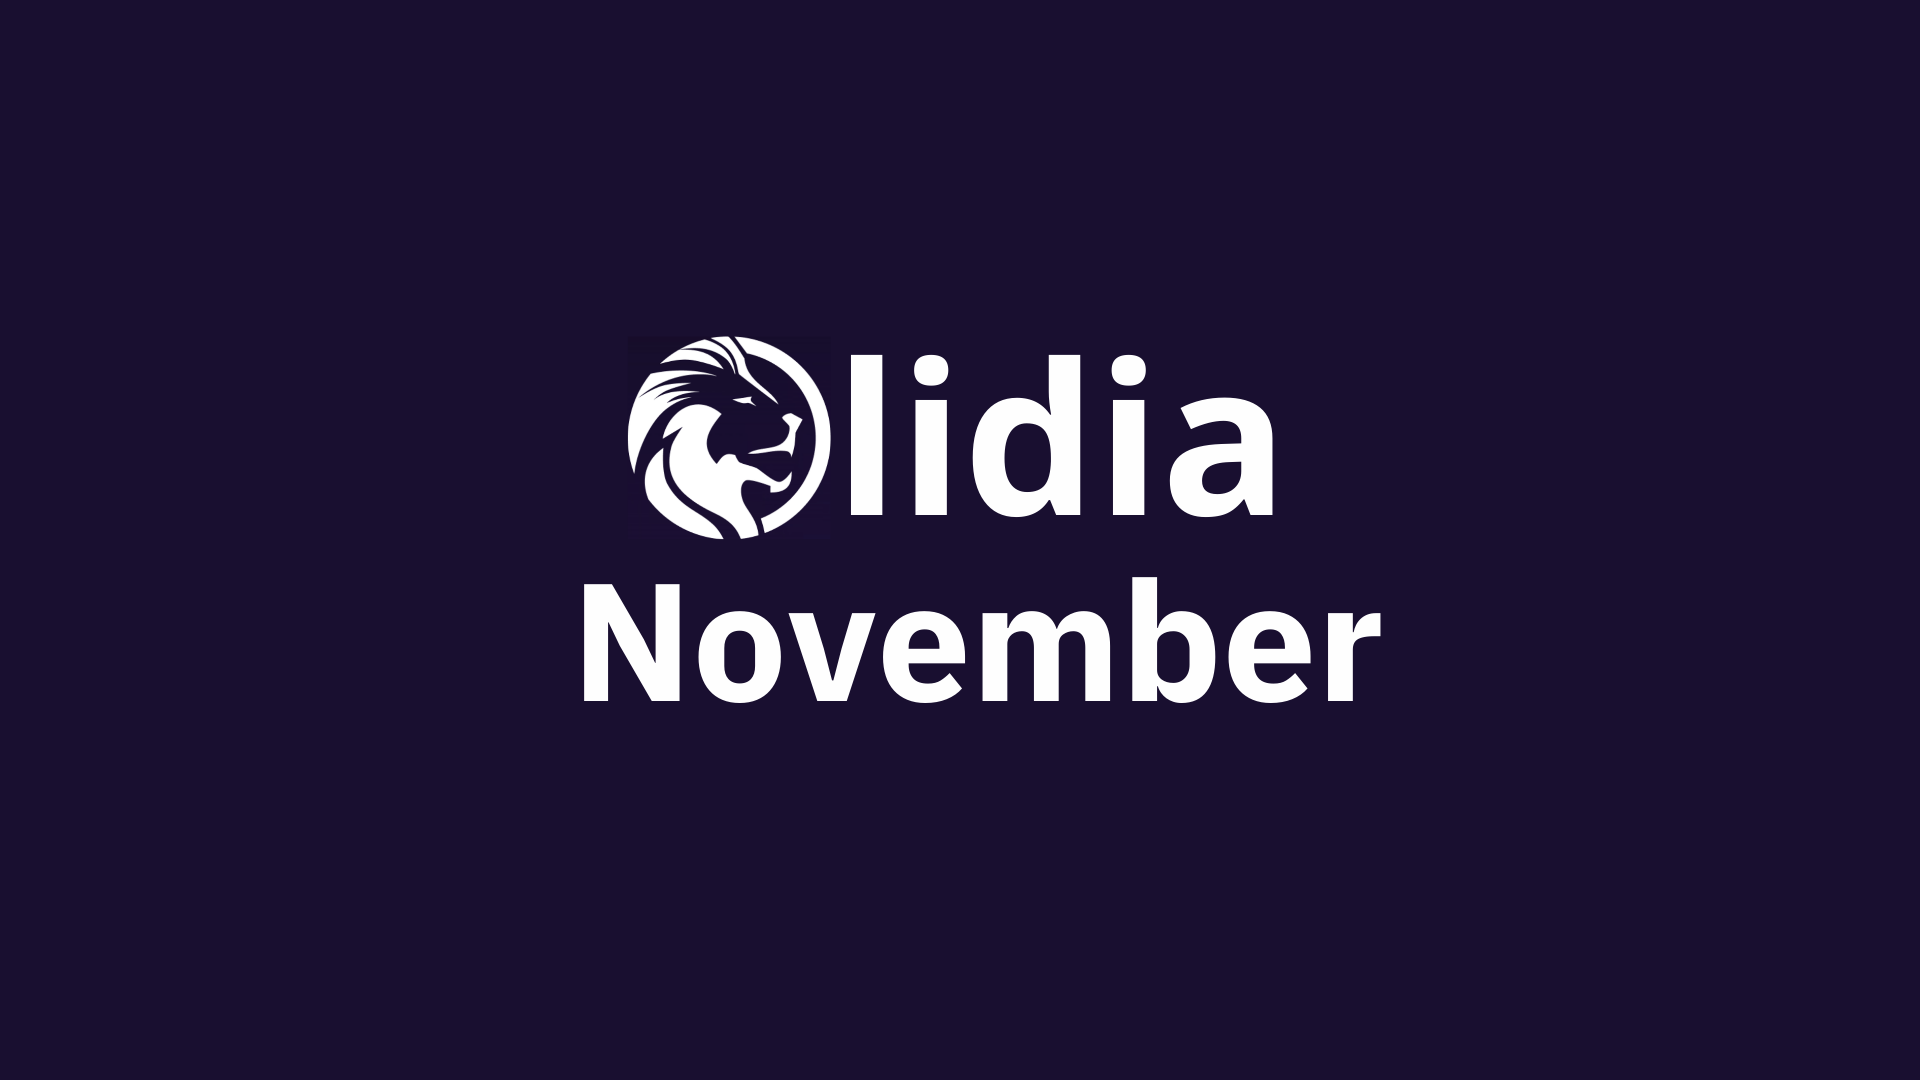
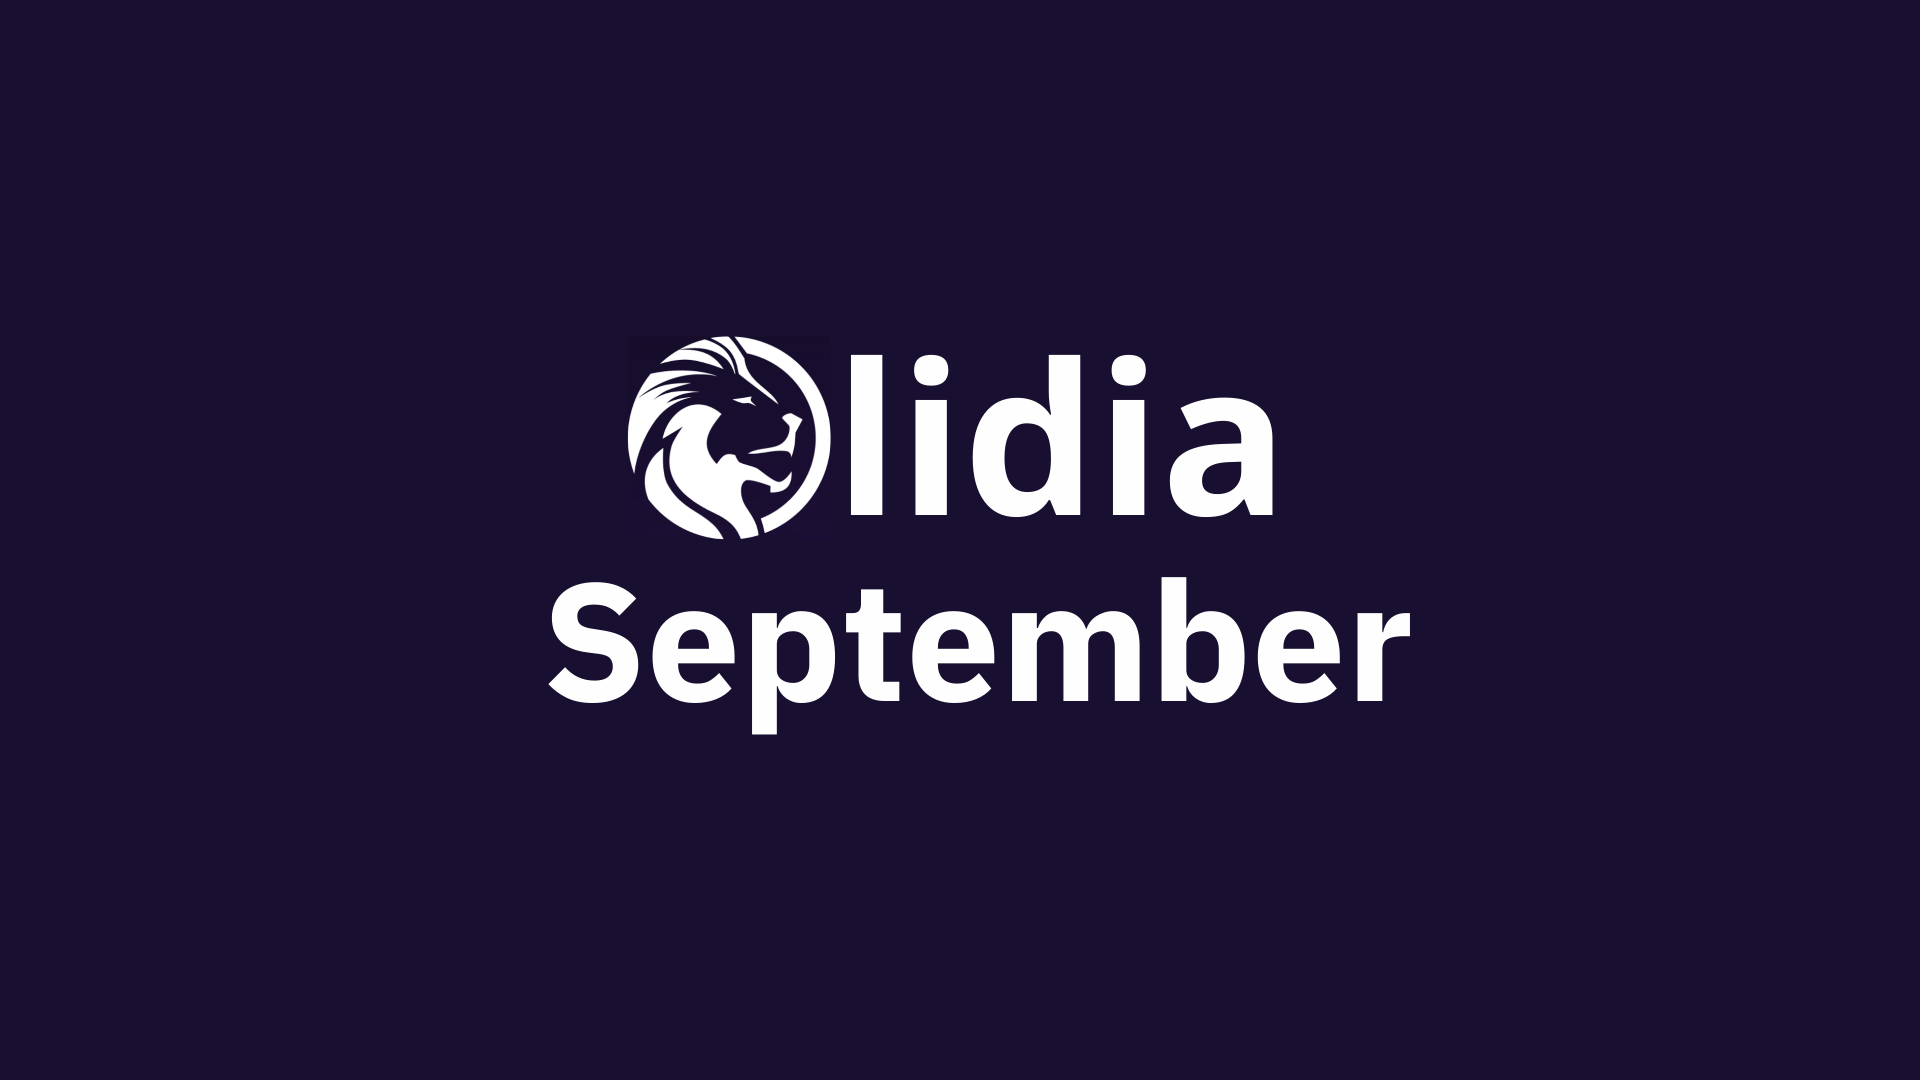
GITBOOK-291: change request with no subject merged in GitBook

Changed region(s): [[0.2812, 0.5194, 0.75, 0.7028]]

diff --git a/help-center/releases/lidia-2.2.x-release-notes.md b/help-center/releases/lidia-2.2.x-release-notes.md
@@ -2,6 +2,8 @@
 description: >-
   Discover the latest updates and improvements introduced this month, enhancing
   the functionality and user experience across the Lidia platform.
+cover: ../../.gitbook/assets/September.png
+coverY: 0
 ---
 
 # Lidia 2.2.x release notes
@@ -76,6 +78,22 @@ In this release, custom error pages were designed and developed to improve user 
 
 \
 The structure of browser tabs has been improved to provide better navigation. For example, the tab now shows the current page followed by the platform name, e.g., **Home | Lidia Partner**, making it easier for users to track their location within the platform.
+
+### 🚚 Delivery Management improvements
+
+**Newly Added Shipment Details**\
+**Release date :**  02/04/2025\
+**Version number : &#x20;**<mark style="color:purple;">**LP-2.2.1.3 - LMC-2.2.1.4**</mark>
+
+Additional shipment movement details have been incorporated into the system to provide users with more detailed tracking.
+
+* **Detailed Shipment Status Information**: More descriptive status updates have been introduced.
+* **Status Timestamp**: The exact time of each status update is now displayed.
+* **Last Processed Location**: The last recorded location where the shipment was processed is now included.
+
+***
+
+## Releases in 2.2.2 - 18 Feb 2025
 
 ***
 

diff --git a/help-center/releases/lidia-1.9.x-release-notes.md b/help-center/releases/lidia-1.9.x-release-notes.md
@@ -2,11 +2,11 @@
 description: >-
   Discover the latest updates and improvements introduced this month, enhancing
   the functionality and user experience across the Lidia platform.
-cover: ../../../.gitbook/assets/September.png
+cover: ../../.gitbook/assets/September (1).png
 coverY: 0
 ---
 
-# September
+# Lidia 1.9.x release notes
 
 ## 💡 **September Highlights: New Features and Improvements**
 

diff --git a/help-center/releases/lidia-1.11.x-release-notes.md b/help-center/releases/lidia-1.11.x-release-notes.md
@@ -2,11 +2,11 @@
 description: >-
   Discover the latest updates and improvements introduced this month, enhancing
   the functionality and user experience across the Lidia platform.
-cover: ../../../.gitbook/assets/September (1).png
+cover: ../../.gitbook/assets/September (1) (1).png
 coverY: 0
 ---
 
-# November
+# Lidia 1.11.x release notes
 
 ## 💡 **November Release Notes**
 
